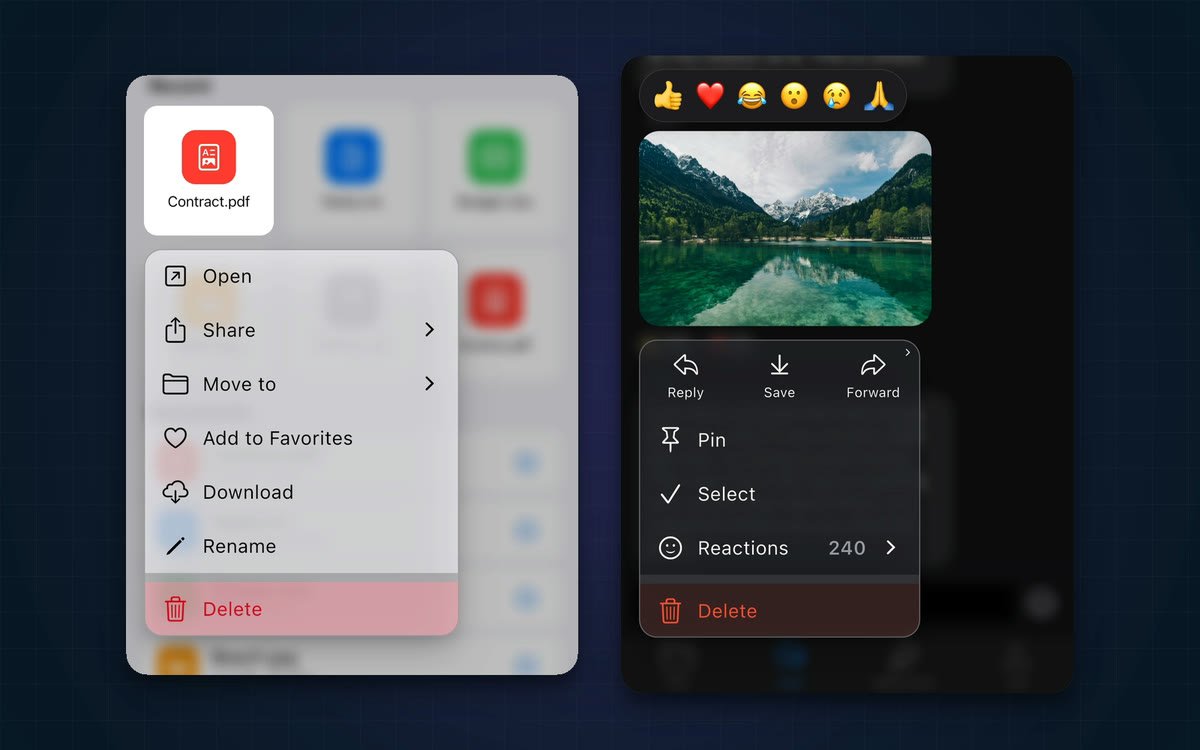
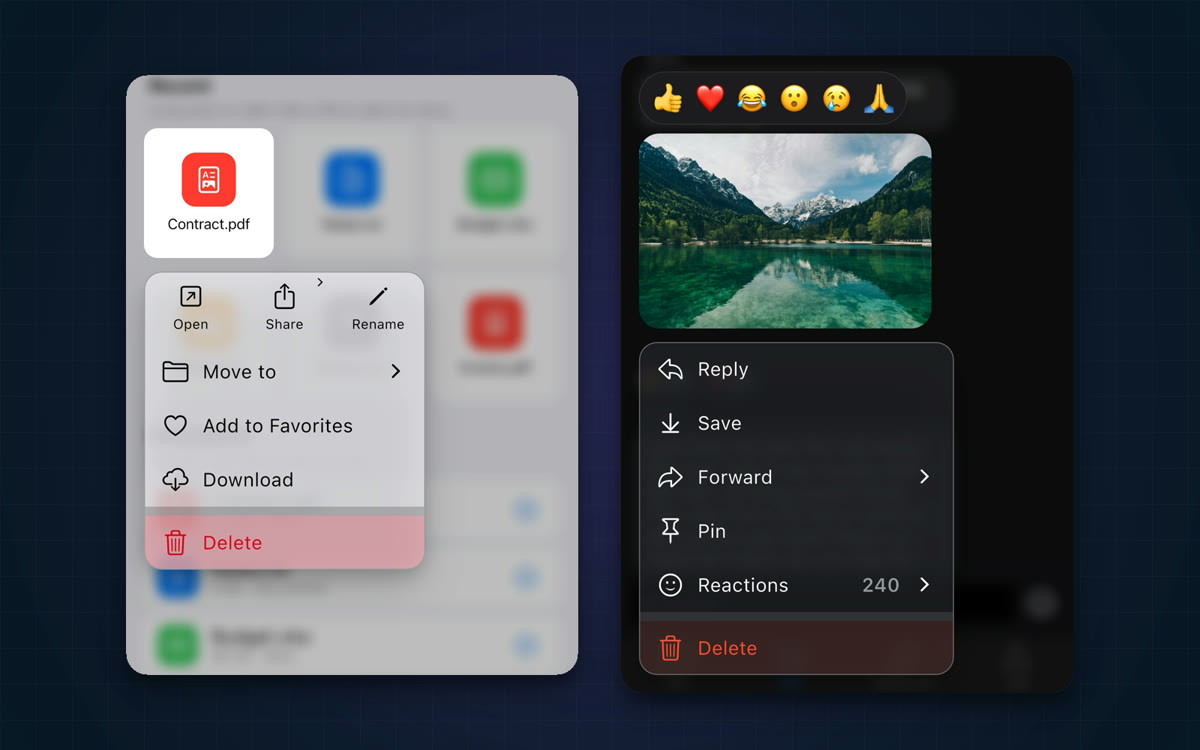
Move the row of actions from the chat message menu to the file menu in the example

diff --git a/example/web/index.html b/example/web/index.html
@@ -470,6 +470,7 @@
 
       <h3>Files</h3>
       <ul>
+        <li data-i18n="hintRow">Open, Share and Rename sit in one row: slide across them as across any items.</li>
         <li data-i18n="hintFilesButton">The ⋯ button in a row opens the same menu.</li>
         <li data-i18n="hintMoveTo">Move to loads the folders when it opens.</li>
         <li data-i18n="hintDownload">Tap Download: the progress shows in the open menu.</li>
@@ -477,7 +478,6 @@
 
       <h3>Chat</h3>
       <ul>
-        <li data-i18n="hintRow">Reply, Copy and Forward sit in one row: slide across them as across any items.</li>
         <li data-i18n="hintReaction">Tap a reaction above a message.</li>
         <li data-i18n="hintReactions">Open Reactions of the lake photo: people load as you scroll.</li>
         <li data-i18n="hintDoubleTap">Double tap next to a message to open its menu.</li>
@@ -519,10 +519,10 @@
       hintStretch: 'Медленно проведите за край меню: оно потянется за пальцем.',
       hintSwipe: 'Свайпните вправо в подменю, чтобы вернуться назад, как в iOS.',
       hintPreview: 'Нажмите превью, чтобы открыть файл или фото. Фото перейдёт на экран со своим Hero.',
+      hintRow: 'Open, Share и Rename стоят в одном ряду: проведите по ним, как по любым пунктам.',
       hintFilesButton: 'Кнопка ⋯ в строке открывает то же меню.',
       hintMoveTo: 'Пункт Move to загружает папки при открытии.',
       hintDownload: 'Нажмите Download: прогресс появится прямо в открытом меню.',
-      hintRow: 'Reply, Copy и Forward стоят в одном ряду: проведите по ним, как по любым пунктам.',
       hintReaction: 'Нажмите реакцию над сообщением.',
       hintReactions: 'Откройте Reactions у фото озера: люди подгружаются при прокрутке.',
       hintDoubleTap: 'Дважды нажмите рядом с сообщением, чтобы открыть его меню.',

diff --git a/example/lib/pages/files/ui/files_page.dart b/example/lib/pages/files/ui/files_page.dart
@@ -152,22 +152,29 @@ final class _FilesPageState extends State<FilesPage> {
   }
 
   List<SmartContextMenuItem> _menuItems(DemoFile file) => [
-    SmartContextMenuItem.simple(
-      title: 'Open',
-      leading: const Icon(CupertinoIcons.arrow_up_right_square),
-      // Runs when the menu is almost closed, so it can open a page.
-      onTap: () => _open(file),
+    // The most frequent actions side by side, as in the menus of iOS. Share
+    // opens its submenu from a cell, and Rename is a disabled cell in
+    // a read-only file.
+    SmartContextMenuItem.row(
+      children: [
+        SmartContextMenuItem.simple(
+          title: 'Open',
+          leading: const Icon(CupertinoIcons.arrow_up_right_square),
+          // Runs when the menu is almost closed, so it can open a page.
+          onTap: () => _open(file),
+        ),
+        _shareItem(file),
+        SmartContextMenuItem.simple(
+          title: 'Rename',
+          leading: const Icon(CupertinoIcons.pencil),
+          isDisabled: file.isReadOnly,
+          onTap: () => _notice('Rename ${file.name} (demo only)'),
+        ),
+      ],
     ),
-    _shareItem(file),
     _moveToItem(file),
     _favoriteItem(file),
     _downloadItem(file),
-    SmartContextMenuItem.simple(
-      title: 'Rename',
-      leading: const Icon(CupertinoIcons.pencil),
-      isDisabled: file.isReadOnly,
-      onTap: () => _notice('Rename ${file.name} (demo only)'),
-    ),
     SmartContextMenuItem.separator(),
     SmartContextMenuItem.simple(
       title: 'Delete',
@@ -178,7 +185,7 @@ final class _FilesPageState extends State<FilesPage> {
   ];
 
   /// A static submenu with an async submenu inside.
-  SmartContextMenuItem _shareItem(DemoFile file) {
+  SmartContextMenuSubmenuItem _shareItem(DemoFile file) {
     return SmartContextMenuItem.submenu(
       title: 'Share',
       leading: const Icon(CupertinoIcons.share),

diff --git a/example/lib/pages/chat/ui/chat_page.dart b/example/lib/pages/chat/ui/chat_page.dart
@@ -247,19 +247,13 @@ final class _ChatPageState extends State<ChatPage> {
   }
 
   List<SmartContextMenuItem> _menuItems(ChatMessage message) => [
-    // The most frequent actions side by side, as in the menus of iOS.
-    SmartContextMenuItem.row(
-      children: [
-        _action('Reply', CupertinoIcons.reply),
-        if (message.image == null)
-          _action('Copy', CupertinoIcons.doc_on_doc)
-        else
-          _action('Save', CupertinoIcons.arrow_down_to_line),
-        _forwardItem(),
-      ],
-    ),
+    _action('Reply', CupertinoIcons.reply),
+    if (message.image == null)
+      _action('Copy', CupertinoIcons.doc_on_doc)
+    else
+      _action('Save', CupertinoIcons.arrow_down_to_line),
+    _forwardItem(),
     _pinItem(message),
-    _action('Select', CupertinoIcons.checkmark),
     if (message.reactionCount > 0) _reactionsItem(message),
     if (message.isMine) _seenByItem(),
     SmartContextMenuItem.separator(),
